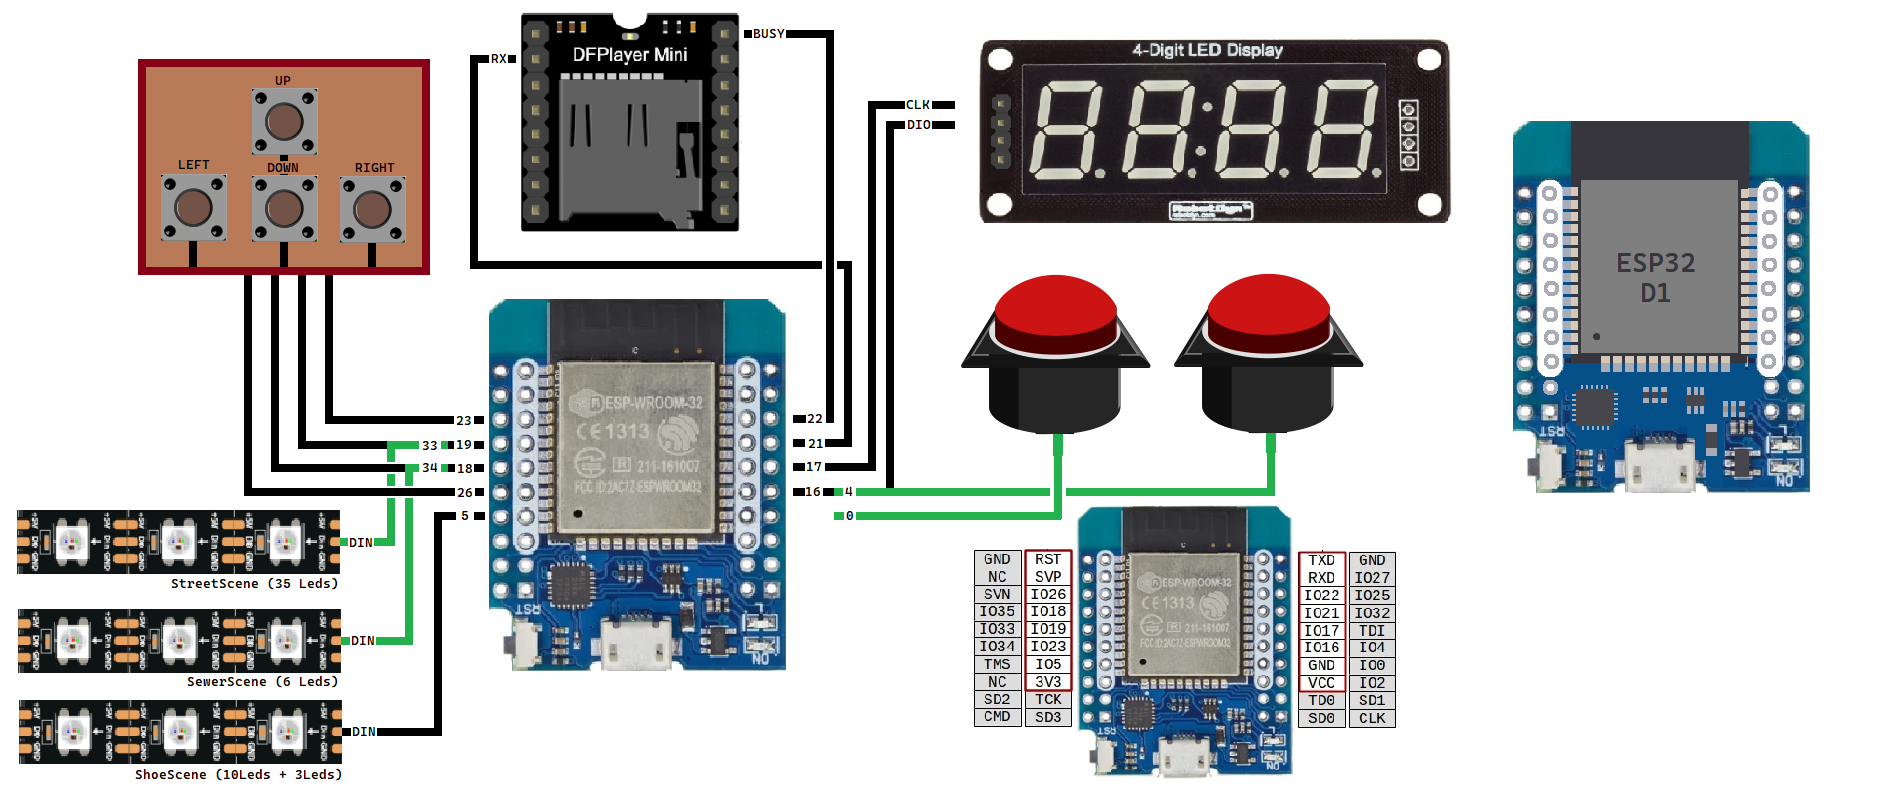
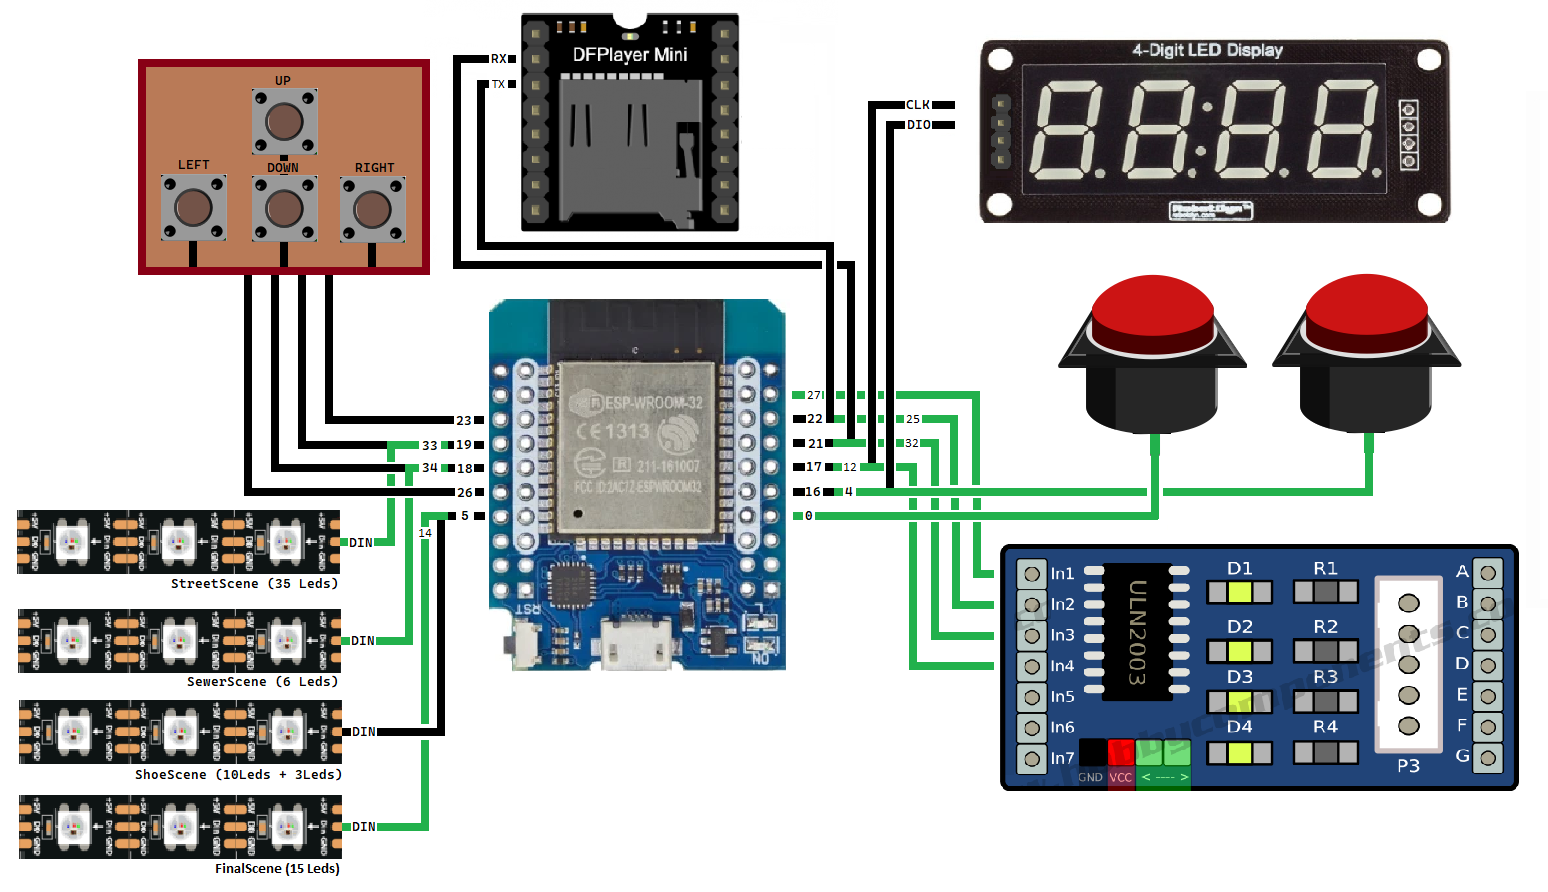
add pin definitions

diff --git a/Code/MicroPython/Scenes/Street/streetScene.py b/Code/MicroPython/Scenes/Street/streetScene.py
@@ -1,3 +1,4 @@
+from Utils.buttons import Buttons
 from Scenes.Street.utils import Utils
 from Scenes.Street.renderStreet import RenderStreet
 from Scenes.Street.player import Player
@@ -7,12 +8,14 @@ from Speech.player import Player
 
 
 class streetScene(object):
-    def __init__(self, neopixel, mp3: Player) -> None:
+    def __init__(self, neopixel, mp3: Player, buttons: Buttons) -> None:
         self.__renderStreet = RenderStreet()
         self.__neo = neopixel
         self.__mp3 = mp3
+        self.__done = False
         self.__state = StateMachine(True)
         self.__speechTimer = Timer(4000)
+        self.__buttons = buttons
         self.playerPosition = [
             [1],
             [0, 0, 0, 0, 0, 0, 0, 0],
@@ -24,6 +27,11 @@ class streetScene(object):
 
         self.__setStates()
 
+
+    def run(self):
+        self.__state.checkState()
+        if self.__done: return True
+
     def __setStates(self) -> None:
         stateMachine = self.__state
 
@@ -32,38 +40,31 @@ class streetScene(object):
         stateMachine.add(lambda: self.__play())
         stateMachine.add(lambda: self.__finish())
 
-    def __play(self) -> bool:
+    def __play(self) -> None:
         # Move traffic
         self.__renderStreet.moveTraffic()
 
         # Perform Player check
-        Player.checkMove(self.playerPosition)
+        Player.checkMove(self.playerPosition, self.__buttons)
 
         # render Led strips
         self.__renderStreet.renderStreetLeds(self.playerPosition, self.__neo)
 
         if self.playerPosition[5][0] == 1:
             print('Player has Finished!')
-            return True
-
-        return False
+            self.__state.nextState()
 
     def __finish(self) -> None:
         self.__renderStreet.renderFinish()
+        self.__done = True
+        self.__state.nextState()
 
-        return True
-
-    def run(self):
-        self.__state.checkState()
-
-    def __GiveSpeech(self) -> bool:
+    def __GiveSpeech(self) -> None:
         if self.__speechTimer.check():
-            return True
-        return False
+            self.__state.nextState()
 
-    def __startStreetScene(self) -> bool:
+    def __startStreetScene(self) -> None:
         print('Starting StreetScene')
         self.__mp3.PlaySpecificInFolder(3, 1)
         self.__mp3.EnableLoop()
-
-        return True
+        self.__state.nextState()

diff --git a/Code/MicroPython/Scenes/Sewer/sewerScene.py b/Code/MicroPython/Scenes/Sewer/sewerScene.py
@@ -19,6 +19,7 @@ __nums = [63, 6, 91, 79, 102, 109, 125, 7, 127, 111]
 class sewerScene(object):
     def __init__(self, clk: int, dio: int, buttons: Buttons, mp3: Player) -> None:
         self.__state = StateMachine(True)
+        self.__done = False
         self.__tm = Utils.tm1637.TM1637(clk=Pin(clk), dio=Pin(dio))
         self.__position = 0
         self.__btns = buttons
@@ -31,8 +32,9 @@ class sewerScene(object):
         self.__setStates()
         print('SewerScene: done init')
 
-    def run(self) -> None:
+    def run(self) -> bool:
         self.__state.checkState()
+        if self.__done: return True
 
     def __setStates(self) -> None:
         stateMachine = self.__state
@@ -47,7 +49,7 @@ class sewerScene(object):
         print('Starting the SewerScene')
         self.__mp3.PlaySpecificInFolder(3, 1)
         self.__mp3.EnableLoop()
-        return True
+        self.__state.nextState()
 
     def __showRandomNumbers(self) -> bool:
         if self.__resetTimer.check(__RANDOM_FLASH_RATE):
@@ -58,9 +60,7 @@ class sewerScene(object):
             self.__tm.number(0000)
             self.__writeCode([0, 0, 0, 0])
             self.__resetTimer.reset()
-            return True
-
-        return False
+            self.__state.nextState()
 
     def __cyberLock(self) -> bool:
         btnState = self.__btns.checkMove()
@@ -98,16 +98,15 @@ class sewerScene(object):
 
         if self.currentCode == __FINISH_CODE:
             print('You Won!')
-            return True
+            self.__state.nextState()
 
         return False
 
     def __finishTalk(self) -> bool:
         if self.__resetTimer.check(__SPEECH_DELAY) == 1:
             self.__mp3.PlaySpecificInFolder(3, 2)
-            return True
-
-        return False
+            self.__done = True
+            self.__state.nextState()
 
     def __showFinish(self):
         if self.__numberFlashTimer.check(__FINISH_FLASH_RATE, __FINISH_FLASH_RATE * 2) == 1:

diff --git a/Code/MicroPython/Scenes/Shoe/shoeScene.py b/Code/MicroPython/Scenes/Shoe/shoeScene.py
@@ -10,14 +10,14 @@ __NOT_PRESSED = const(250)
 
 class shoeScene(object):
 
-    def __init__(self, neopixel, state, btnLeft: int, btnRight: int, mp3: Player) -> None:
+    def __init__(self, neopixel, btnLeft: int, btnRight: int, mp3: Player) -> None:
         print('Init shoeScene..')
-        self.mainState = state
         self.__mp3 = mp3
         self.__state = StateMachine(True)
         self.__neo = neopixel
 
         self.__leftButtonPressed = False
+        self.__done = False
         self.__currentLed = 0
         self.__prevLed = -1
         self.__btnLeft = Button(
@@ -36,25 +36,26 @@ class shoeScene(object):
         stateMachine.add(lambda: self.__start())
         stateMachine.add(lambda: self.__runningMan(self.__neo))
         stateMachine.add(lambda: self.__lightShoe())
-        # stateMachine.add(1)
 
     def run(self) -> None:
         self.__state.checkState()
+        if self.__done: return True
 
-    def __start(self) -> bool:
+    def __start(self) -> None:
         print('Starting ShoeScene...')
         self.__mp3.PlaySpecificInFolder(1, 1)
         self.__mp3.EnableLoop()
-        return True
+        self.__state.nextState()
 
-    def __lightShoe(self) -> bool:
+    def __lightShoe(self) -> None:
         self.__neo[0] = (25, 0, 25)
         self.__neo[1] = (25, 0, 25)
         self.__neo[2] = (25, 0, 25)
         self.__neo.write()
-        return True
+        self.__done = True
+        self.__state.nextState()
 
-    def __runningMan(self, neopixel) -> bool:
+    def __runningMan(self, neopixel) -> None:
         btnLeft = self.__btnLeft
         btnRight = self.__btnRight
 
@@ -79,6 +80,4 @@ class shoeScene(object):
             neopixel.write()
 
             if self.__currentLed >= 5:
-                return True
-
-        return False
+                self.__state.nextState()

diff --git a/Code/MicroPython/Utils/stepper.py b/Code/MicroPython/Utils/stepper.py
@@ -1,0 +1,59 @@
+  
+import time
+
+# only test for uln2003
+class Stepper:
+    FULL_ROTATION = int(4075.7728395061727 / 8)
+
+    HALF_STEP = [
+        [0, 0, 0, 1],
+        [0, 0, 1, 1],
+        [0, 0, 1, 0],
+        [0, 1, 1, 0],
+        [0, 1, 0, 0],
+        [1, 1, 0, 0],
+        [1, 0, 0, 0],
+        [1, 0, 0, 1],
+    ]
+
+    FULL_STEP = [
+        [1, 0, 1, 0],
+        [0, 1, 1, 0],
+        [0, 1, 0, 1],
+        [1, 0, 0, 1]
+    ]
+    def __init__(self, mode, pin1, pin2, pin3, pin4, delay):
+        if mode == 'FULL_STEP':
+            self.mode = self.FULL_STEP
+        else:
+            self.mode = self.HALF_STEP
+            self.pin1 = pin1
+            self.pin2 = pin2
+            self.pin3 = pin3
+            self.pin4 = pin4
+            self.delay = delay  # Recommend 10+ for FULL_STEP, 1 is OK for HALF_STEP
+        
+        # Initialize all to 0
+        self.reset()
+        
+    def step(self, count, direction=1):
+        """Rotate count steps. direction = -1 means backwards"""
+        for x in range(count):
+            for bit in self.mode[::direction]:
+                self.pin1(bit[0])
+                self.pin2(bit[1])
+                self.pin3(bit[2])
+                self.pin4(bit[3])
+                time.sleep_ms(self.delay)
+        self.reset()
+    def angle(self, r, direction=1):
+    	self.step(int(self.FULL_ROTATION * r / 360), direction)
+    def reset(self):
+        # Reset to 0, no holding, these are geared, you can't move them
+        self.pin1(0) 
+        self.pin2(0) 
+        self.pin3(0) 
+        self.pin4(0)
+
+def create(pin1, pin2, pin3, pin4, delay=2, mode='HALF_STEP'):
+	return Stepper(mode, pin1, pin2, pin3, pin4, delay)

diff --git a/Code/MicroPython/Scenes/Street/player.py b/Code/MicroPython/Scenes/Street/player.py
@@ -1,33 +1,22 @@
-from machine import Pin, const
-from Utils.timer import Timer
-
-LEFT = const(1)
-RIGHT = const(2)
-DOWN = const(3)
-UP = const(4)
-
-btnLeft = Pin(17, Pin.IN, Pin.PULL_UP)
-btnRight = Pin(19, Pin.IN, Pin.PULL_UP)
-btnDown = Pin(18, Pin.IN, Pin.PULL_UP)
-btnUp = Pin(23, Pin.IN, Pin.PULL_UP)
+from machine import  const
+from Utils.buttons import Buttons, UP, DOWN, RIGHT, LEFT
 
 __MOVE_PLAYER_SPEED = const(250)
 
 
 class Player(object):
-    def __init__(self) -> None:
-        self.__buttonTimer = Timer(__MOVE_PLAYER_SPEED)
+    def __init__(self, buttons: Buttons ) -> None:
+        self.__buttons = buttons
 
     def checkMove(self, playerPosition) -> None:
-        btnTimer = self.__buttonTimer
 
-        if btnLeft.value() and btnTimer.check():
+        if self.__buttons.checkMove() == LEFT:
             self.__movePlayerPos(LEFT, playerPosition)
-        elif btnRight.value() and btnTimer.check():
+        elif self.__buttons.checkMove() == RIGHT:
             self.__movePlayerPos(RIGHT, playerPosition)
-        elif btnDown.value() and btnTimer.check():
+        elif self.__buttons.checkMove() == DOWN:
             self.__movePlayerPos(DOWN, playerPosition)
-        elif btnUp.value() and btnTimer.check():
+        elif self.__buttons.checkMove() == UP:
             self.__movePlayerPos(UP, playerPosition)
 
     def __movePlayerPos(self, direction, playerStreetPos) -> None:

diff --git a/Code/MicroPython/Scenes/Scenes.py b/Code/MicroPython/Scenes/Scenes.py
@@ -4,26 +4,28 @@ from Utils.buttons import Buttons
 from Utils.stateMachine import StateMachine
 from Scenes.Sewer import sewerScene
 from Scenes.Shoe import shoeScene
+from Scenes.Street import streetScene
 from Scenes.Startup import startup
 
 from machine import Pin
 from neopixel import NeoPixel
 
-pinStreet = Pin(16, Pin.OUT)
+import Scenes.pindefinitions as p
+
+pinStreet = Pin(p.STREET_DIN, Pin.OUT)
 neoStreet = NeoPixel(pinStreet, 34)
-pinShoe = Pin(18, Pin.OUT)
+pinShoe = Pin(p.SHOE_DIN, Pin.OUT)
 neoShoe = NeoPixel(pinShoe, 5)
 
-mp3 = Player(1, 21, 22)
-
-state = 1
+mp3 = Player(1, p.DF_TX_PIN, p.DF_RX_PIN)
 
 print('init Main done')
 print('Starting main loop...')
 
-buttons = Buttons(17, 18, 19, 26)
-sewer = sewerScene(5, 23, buttons, mp3)
-shoe = shoeScene(neoShoe, state, 5, 23, buttons, mp3)
+buttons = Buttons(p.UP_ARROW, p.DOWN_ARROW, p.LEFT_ARROW, p.RIGHT_ARROW)
+sewer = sewerScene(p.SEWER_SEGMENT_CLK, p.SEWER_SEGMENT_DIO, buttons, mp3)
+shoe = shoeScene(neoShoe, p.LEFT_SIDE_BTN, p.RIGHT_SIDE_BTN, buttons, mp3)
+street = streetScene(neoStreet, mp3)
 start = startup()
 
 stateMachine = StateMachine()

diff --git a/Code/MicroPython/Scenes/pindefinitions.py b/Code/MicroPython/Scenes/pindefinitions.py
@@ -1,0 +1,33 @@
+# ArrowPad
+LEFT_ARROW = 26
+DOWN_ARROW = 18
+RIGHT_ARROW = 19
+UP_ARROW = 23
+
+# Side Buttons
+LEFT_SIDE_BTN = 0
+RIGHT_SIDE_BTN = 4
+
+# DFPlayer (speech)
+DF_RX_PIN = 21
+DF_TX_PIN = 22
+
+# StreetScene Ledstrip
+STREET_DIN = 33
+
+# SewerScene Ledstrip
+SEWER_DIN = 34
+# Segment Display
+SEWER_SEGMENT_CLK = 17
+SEWER_SEGMENT_DIO = 16
+
+
+# ShoeScene Ledstrip
+SHOE_DIN = 5
+
+# FinalScene
+STEPPER_PIN1 = 27
+STEPPER_PIN2 = 25
+STEPPER_PIN3 = 32
+STEPPER_PIN4 = 12
+FINAL_DIN = 14

diff --git a/Code/MicroPython/Utils/stateMachine.py b/Code/MicroPython/Utils/stateMachine.py
@@ -1,5 +1,3 @@
-
-
 class StateMachine:
     def __init__(self, annotate: bool = False):
         self.state = 0
@@ -28,12 +26,12 @@ class StateMachine:
         self.transitions.append(input)
 
 
+
+# == TESTS ==
 # def test(st: StateMachine):
 #     st.nextState()
 
-
 # st = StateMachine(True)
-
 
 # def tt():
 #     return True
